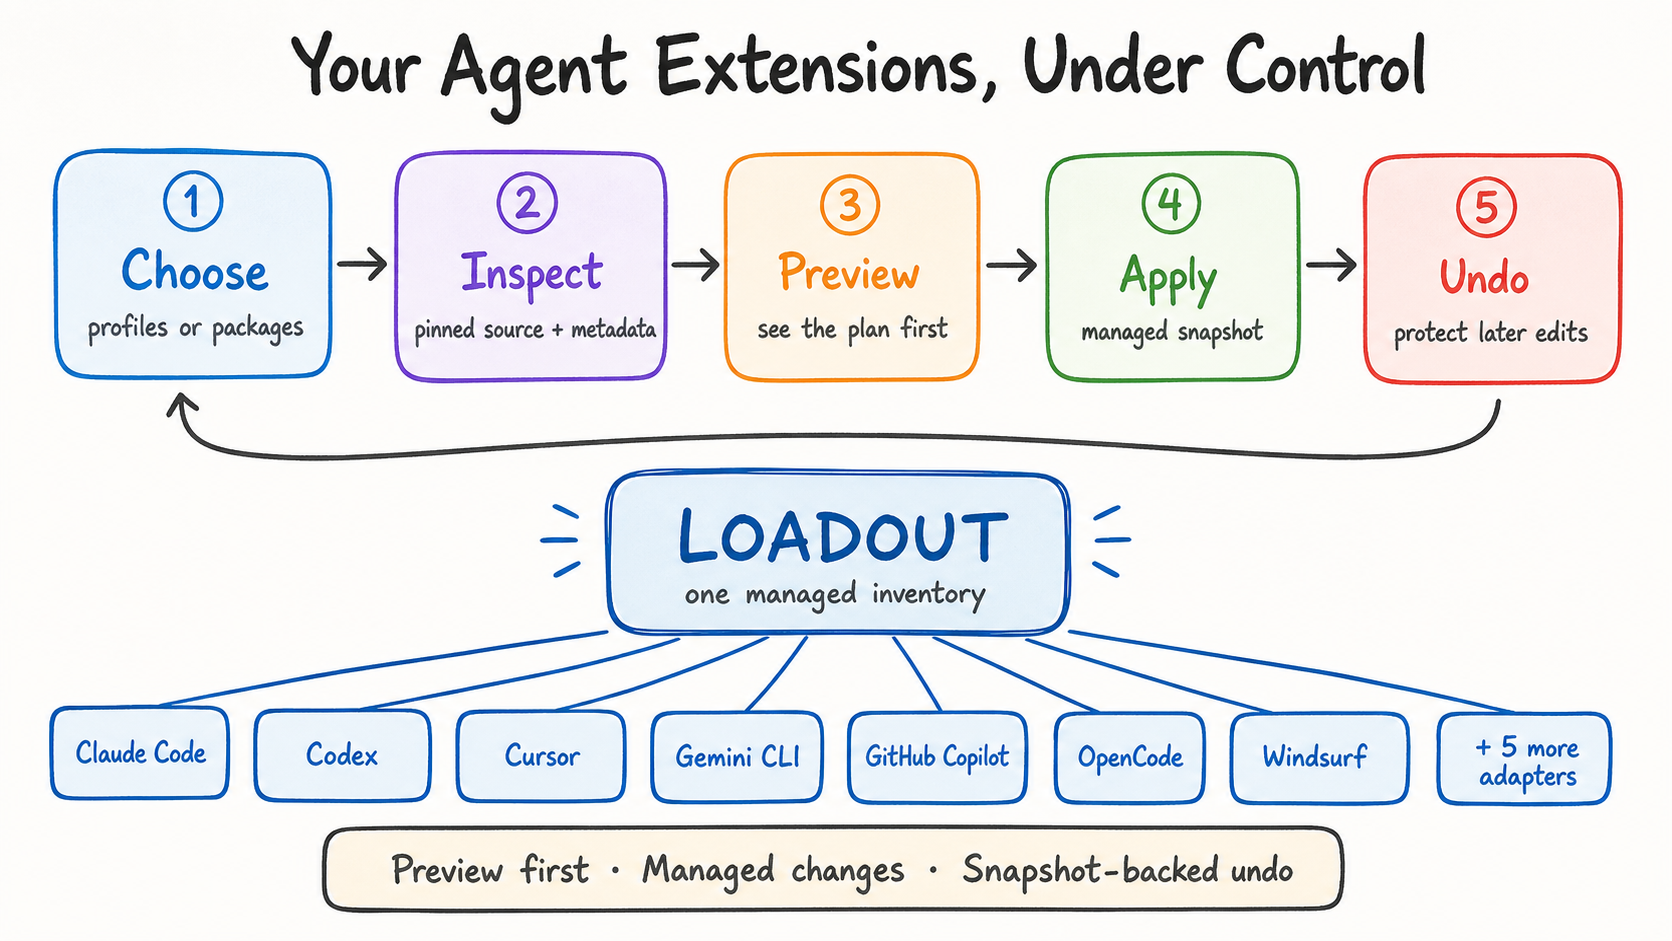
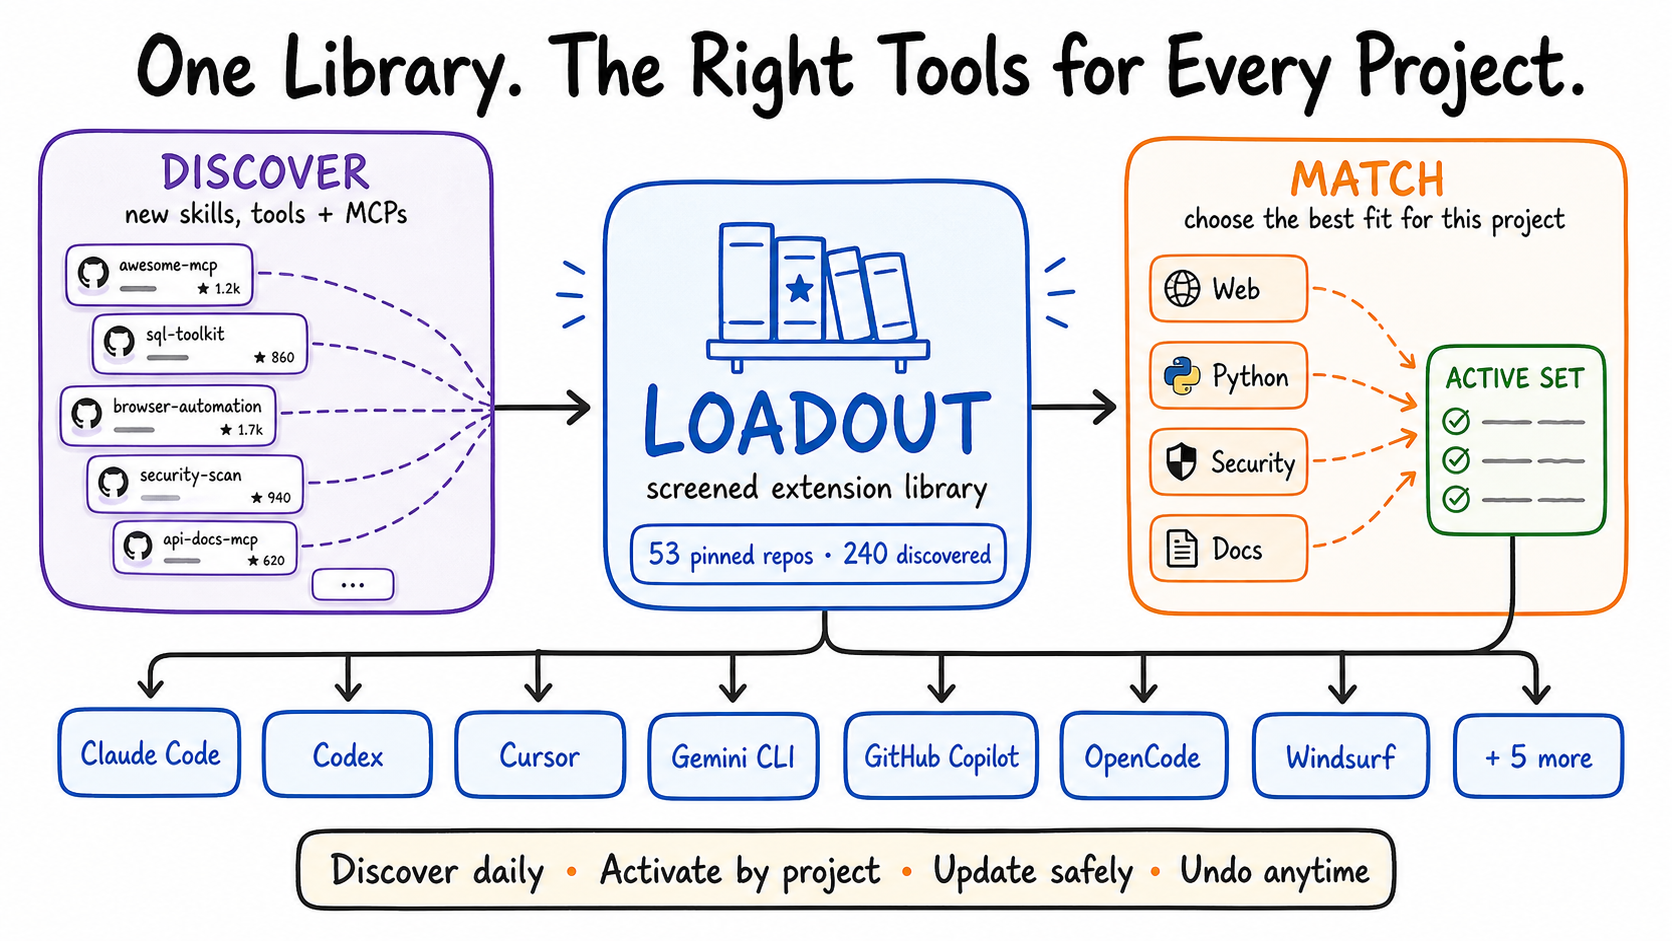
docs: humanize launch story and Codex usage (#18)

diff --git a/tests/readme-product-flow.test.ts b/tests/readme-product-flow.test.ts
@@ -99,7 +99,7 @@ describe("README product flow", () => {
         ) ?? [];
     expect(heroImages).toHaveLength(1);
     expect(heroImages[0]).toContain(
-      'alt="Loadout workflow: choose extensions, inspect sources, preview changes, apply through a managed snapshot, and undo safely across supported AI coding agents."',
+      'alt="Loadout discovers skills, tools, and MCP servers, keeps them in a screened library, matches an active set to each project, and manages them across AI coding agents."',
     );
     expect(readme).not.toMatch(/founder|revolutionary|game-changing/i);
     expect(readme).toContain("Agent extensions, under control.");
@@ -110,16 +110,17 @@ describe("README product flow", () => {
     expectOrderedReadmeStructure(
       readme,
       [
+        "## Install",
         "## How it works",
         "### Abridged terminal transcript",
         "## Why Loadout",
-        "## Install",
         "## Stable workflow",
         "## Profiles",
         "## Catalog and discovery",
         "## Trust and limits",
         "## Agent support",
         "## Command reference",
+        "## Built with Codex and GPT-5.6",
         "## Development",
         "## Documentation",
         "## Contributing, security, and attribution",
@@ -139,19 +140,20 @@ describe("README product flow", () => {
   it("tells the Loadout story in the Why Loadout section", async () => {
     const readme = await readFile(resolve(repositoryRoot, "README.md"), "utf8");
     const start = readme.indexOf("## Why Loadout");
-    const end = readme.indexOf("## Install", start);
+    const end = readme.indexOf("## Stable workflow", start);
     expect(start).toBeGreaterThanOrEqual(0);
     expect(end).toBeGreaterThan(start);
 
     const whyLoadout = readme.slice(start, end);
     const storyAnchors = [
-      /skills, plugins, MCP servers, and agent settings[^.]*accumulate[^.]*experiment/i,
+      /why does improving an AI coding agent[^?]*GitHub tabs/i,
+      /skills, plugins, MCP servers, and settings[^.]*experiment/i,
       /hard to remember[^.]*installed[^.]*came from[^.]*undo/i,
-      /in a game[^.]*loadout[^.]*tools[^.]*mission/i,
-      /AI coding agents/i,
-      /inspect[^.]*choose intentionally/i,
-      /managed changes/i,
-      /remove[^.]*roll it back later/i,
+      /name comes from games[^.]*loadout[^.]*tools[^.]*mission/i,
+      /AI\s+coding agents/i,
+      /what is actually worth knowing/i,
+      /disabled Maximum library/i,
+      /focused active set/i,
     ];
 
     let previousIndex = -1;
@@ -179,9 +181,7 @@ describe("README product flow", () => {
     expect(readme).toContain(
       '<a href="https://github.com/VirajMishra1/loadout/actions/workflows/ci.yml"><img src="https://github.com/VirajMishra1/loadout/actions/workflows/ci.yml/badge.svg" alt="CI status"></a>',
     );
-    expect(readme).toContain(
-      "git clone https://github.com/VirajMishra1/loadout.git",
-    );
+    expect(readme).not.toContain("git clone ");
     expect(readme).toContain("https://github.com/VirajMishra1/loadout/issues");
     expect(readme).not.toContain("https://github.com/reddynitish/loadout");
     expect(packageJson.repository.url).toBe(

diff --git a/README.md b/README.md
@@ -1,5 +1,5 @@
 <p align="center">
-  <img src="./docs/assets/loadout-workflow.png" alt="Loadout workflow: choose extensions, inspect sources, preview changes, apply through a managed snapshot, and undo safely across supported AI coding agents." width="960">
+  <img src="./docs/assets/loadout-workflow.png" alt="Loadout discovers skills, tools, and MCP servers, keeps them in a screened library, matches an active set to each project, and manages them across AI coding agents." width="960">
 </p>
 
 <h1 align="center">Loadout</h1>
@@ -7,8 +7,8 @@
 <p align="center"><strong>Agent extensions, under control.</strong></p>
 
 <p align="center">
-  <strong>One install for the GitHub skills, tools, and MCP servers worth knowing.</strong><br>
-  Find them. Screen them. Put the right ones in every coding agent. Undo anything.
+  <strong>The package manager for your AI coding setup.</strong><br>
+  Discover broadly. Activate the right tools for each project. Stay current without starting over.
 </p>
 
 <p align="center">
@@ -21,27 +21,26 @@
 </p>
 
 <p align="center">
-  <a href="#why-loadout">Why Loadout</a> ·
   <a href="#install">Install</a> ·
+  <a href="#why-loadout">Why Loadout</a> ·
   <a href="#profiles">Profiles</a> ·
   <a href="#catalog-and-discovery">Discover</a> ·
   <a href="#trust-and-limits">Trust</a> ·
   <a href="#command-reference">Commands</a>
 </p>
 
-> [!IMPORTANT]
-> Loadout previews first and changes nothing until you approve. The commands below are pinned to `loadout-ai@0.5.6` so your install matches these docs.
+## Install
+
+You need Node.js 20 or newer and Git.
 
 ```bash
-npx loadout-ai@0.5.6 setup --mode stable
+npm install --global loadout-ai@0.5.6
+loadout setup --mode stable
 ```
 
-That is it. Loadout detects your coding agents, prepares its recommended Stable
-loadout, and shows every planned change. Approve only when it looks right.
-
-> **The idea:** stop spending nights hopping between GitHub repos, Reddit threads,
-> launch posts, and half-forgotten bookmarks just to keep your agents useful.
-> Loadout turns that mess into one local, inspectable, reversible system.
+The second command detects your agents and previews the 30-skill Stable loadout.
+Nothing changes until you approve it. If anything goes wrong, start with the
+[user test guide](./docs/USER_TEST_GUIDE.md).
 
 ## How it works
 
@@ -81,10 +80,22 @@ files. Review the summary and warnings before approving an apply command.
 
 ## Why Loadout
 
-Skills, plugins, MCP servers, and agent settings tend to accumulate one experiment at a time. Eventually it becomes hard to remember what is installed, where it came from, or how to undo it. In a game, a loadout is the deliberate set of tools chosen before a mission. Loadout brings that same discipline to AI coding agents: inspect the available equipment, choose intentionally, apply it through managed changes, and remove or roll it back later.
+Loadout started with a frustrating question: **why does improving an AI coding agent
+still mean opening twenty GitHub tabs?**
+
+Useful skills, plugins, MCP servers, and settings arrive one experiment at a time.
+Soon it is hard to remember what is installed, where it came from, whether something
+better launched yesterday, or how to undo a change. The name comes from games, where
+your loadout is the set of tools you choose for the mission. This does the same for AI
+coding agents—without making you rebuild the setup for every agent and every project.
 
 Most extension tools begin with a repo you already know. Loadout begins one step
 earlier—**what is actually worth knowing?**—and stays with you after installation.
+
+Loadout watches a much wider catalog than it activates. You can keep thousands of
+technically screened skill copies in the disabled Maximum library, discover new projects as
+they appear, and let each codebase pull a focused active set instead of dumping
+everything into every prompt.
 
 | The usual workflow                                             | The Loadout workflow                                             |
 | -------------------------------------------------------------- | ---------------------------------------------------------------- |
@@ -107,36 +118,6 @@ discovery checks, MCP setup, Graphify, rollback, and complete uninstall.
 
 For now, the [end-to-end acceptance guide](./docs/USER_TEST_GUIDE.md) contains the same
 commands you can run yourself.
-
-## Install
-
-You need Node.js 20 or newer and Git.
-
-```bash
-npm install --global loadout-ai@0.5.6
-loadout --version
-loadout guide
-```
-
-For source development instead:
-
-```bash
-git clone https://github.com/VirajMishra1/loadout.git
-cd loadout
-npm ci
-npm run build
-npm link
-loadout --version
-```
-
-For your first preview, run:
-
-```bash
-loadout setup --mode stable
-```
-
-Nothing is installed until you approve the preview. If a command is not found or a
-network check fails, use the [user test guide](./docs/USER_TEST_GUIDE.md).
 
 ## Stable workflow
 
@@ -404,6 +385,30 @@ Start at the top and stop whenever Loadout does everything you need.
 Most mutating commands are dry runs first. After reading the preview, add `--yes` to
 apply. Commands with executable or connection risk require the additional approval
 shown in their output.
+
+## Built with Codex and GPT-5.6
+
+Loadout was built during OpenAI Build Week by a three-person team working with Codex
+and GPT-5.6 as an engineering partner. We did not use Codex to generate a throwaway
+demo around a prompt; we used it throughout the real product loop:
+
+- **Planning:** turning the original “one install for the best agent extensions” idea
+  into the Stable, Power, Maximum, discovery, update, and rollback architecture.
+- **Engineering:** implementing and refactoring the TypeScript CLI, agent adapters,
+  catalog pipeline, safety checks, transactions, MCP recipes, and runtime-tool flow.
+- **Research:** comparing extension ecosystems, inspecting upstream repositories,
+  checking claims, and keeping popularity separate from trust.
+- **Debugging:** reproducing hands-on test failures, tracing filesystem and update
+  behavior, and adding regression tests instead of papering over errors.
+- **Verification:** running the complete release gate, package smoke tests,
+  performance checks, and real installs against Codex and Claude Code profiles.
+- **Collaboration:** reviewing work across teammate branches, preparing focused pull
+  requests, and keeping the master plan aligned with the code that actually shipped.
+
+The humans chose the product direction, reviewed the tradeoffs, tested it on real
+machines, and made the release decisions. Codex and GPT-5.6 helped us move from idea
+to a tested CLI much faster—and gave us enough iteration time to care about rollback,
+attribution, and the unglamorous details that make a developer tool trustworthy.
 
 ## Development
 